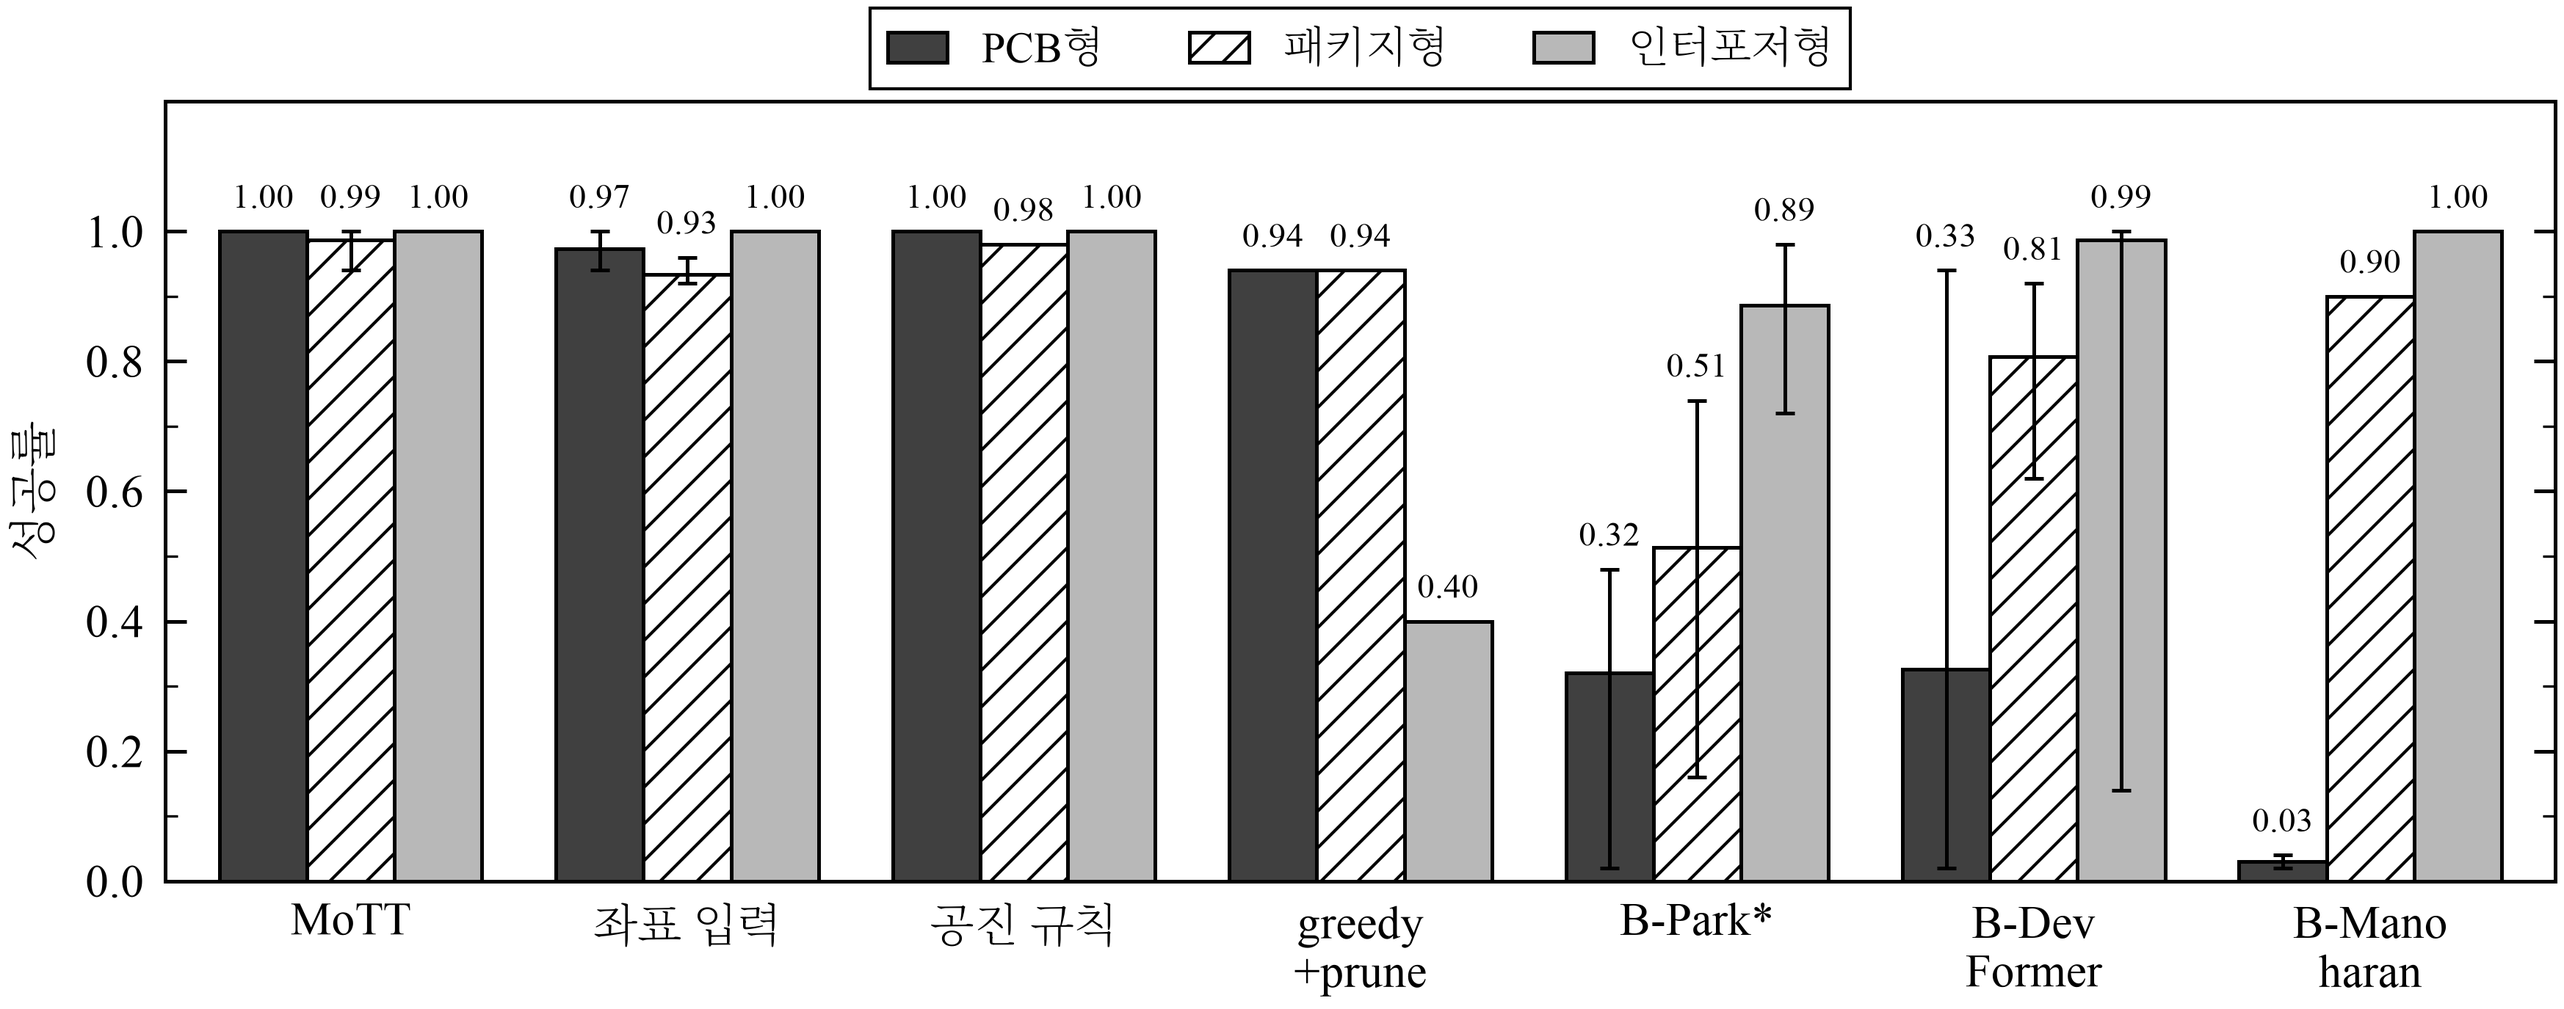
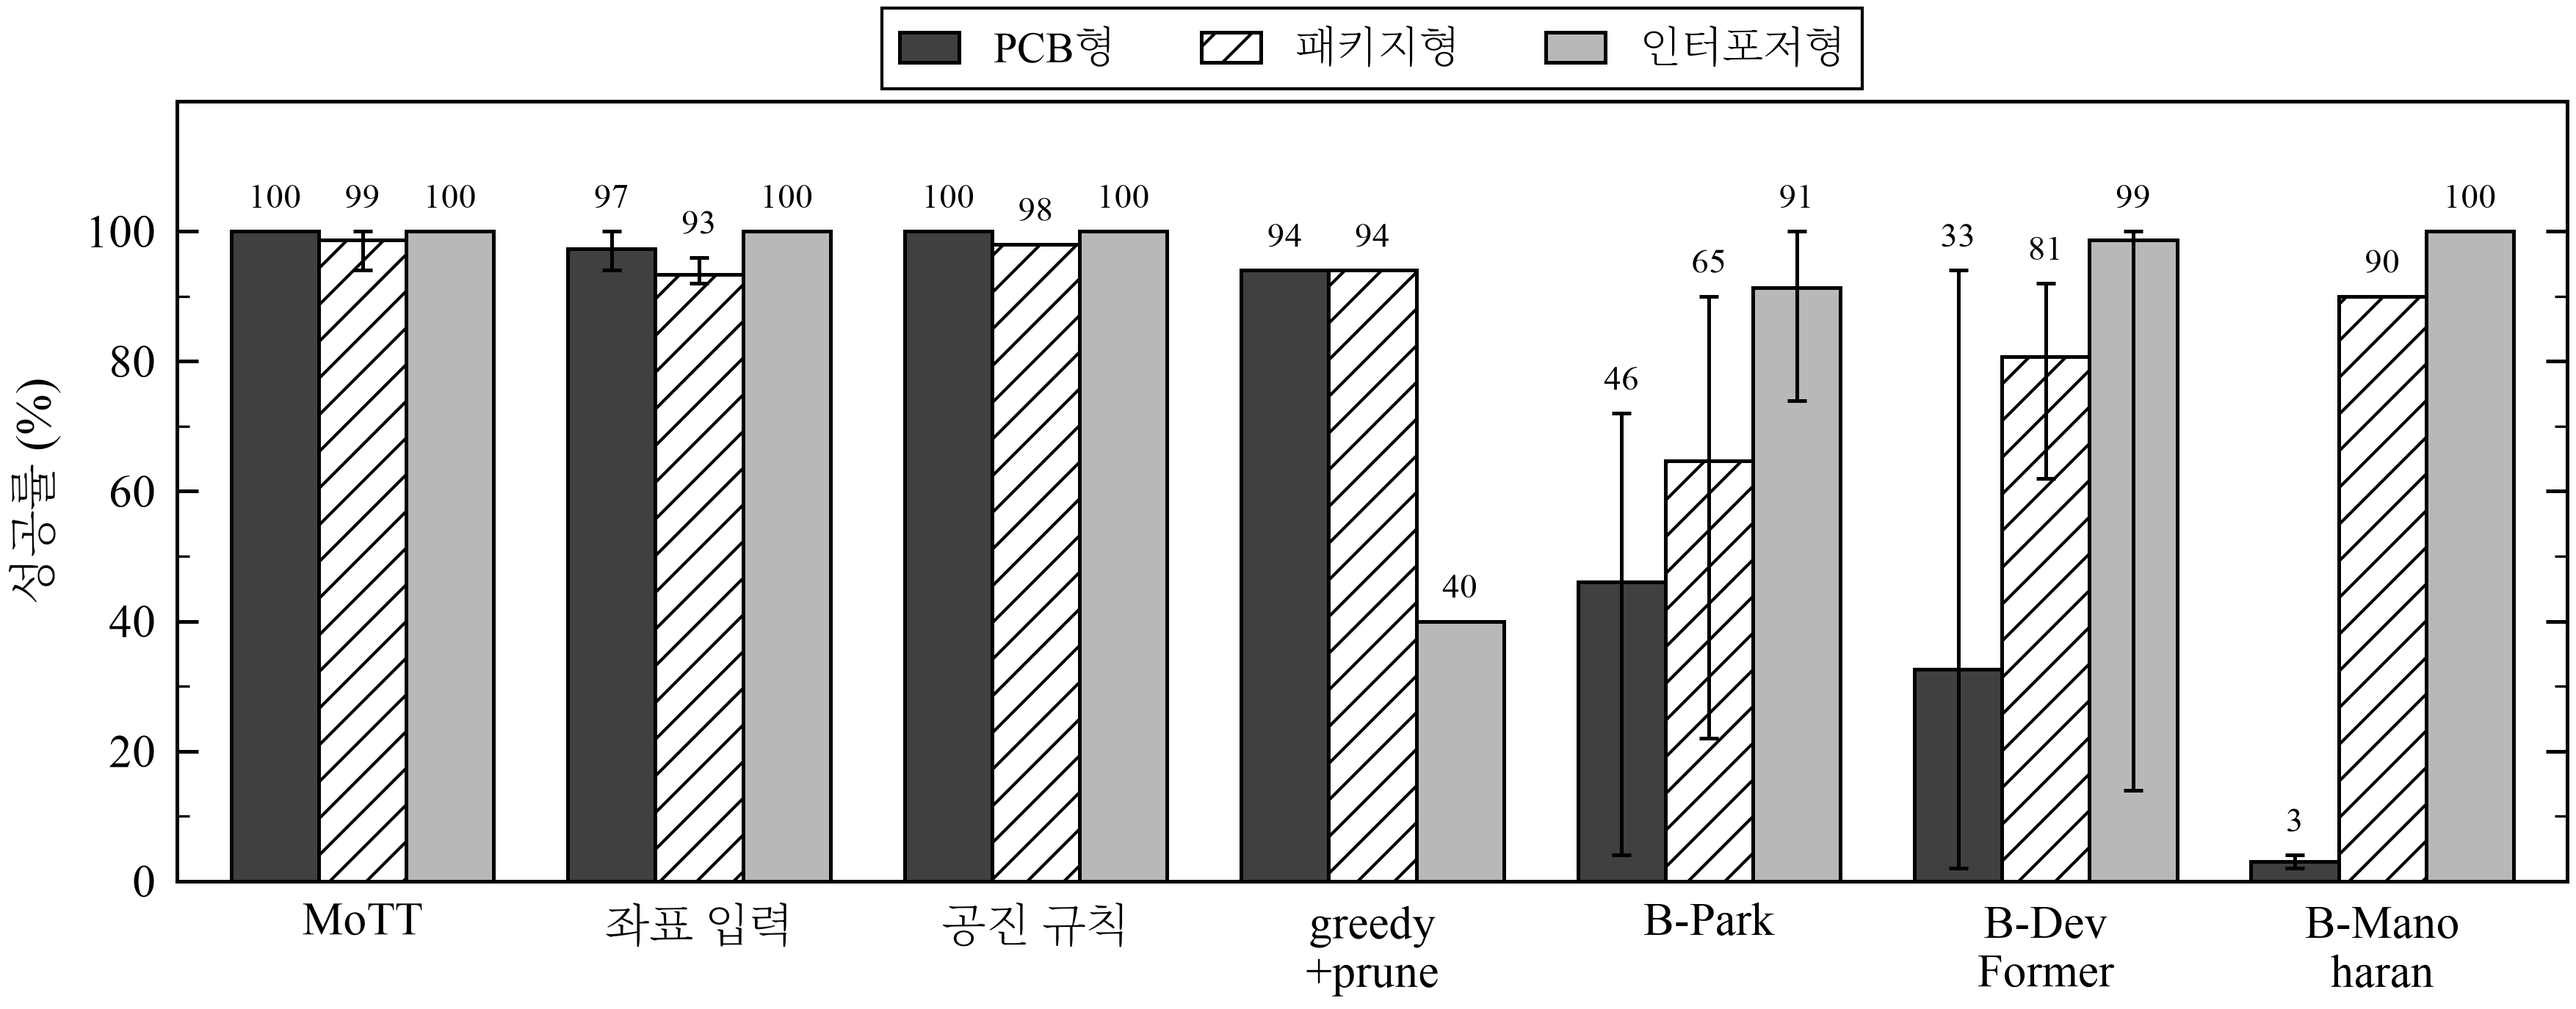
README: update all-kinds figure with B-Park harness results; add environment to English version

diff --git a/README_en.md b/README_en.md
@@ -147,7 +147,7 @@ Adding resonance features raises the success rate on unseen kinds; changing the 
 <div align="center">
 <img src="assets/all_kinds.png" width="800">
 
-<sub>Success rate (10×10, with harness). Bars: mean over seeds; whiskers: range over seeds. B-Park is without harness</sub>
+<sub>Success rate (%, 10×10, harness applied to every method). Bars: mean over seeds; whiskers: range over seeds</sub>
 </div>
 
 MoTT is the only learned method at or above 0.99 on all three kinds. The re-implemented prior methods drop to 0.02 on PCB boards for some seeds.
@@ -157,6 +157,7 @@ MoTT is the only learned method at or above 0.99 on all three kinds. The re-impl
 
 - `r2pk*`, `r0_coord*`, `bp_park*`, `bdf*`, `bm2_rlonly*` under [`runs/2026-10-29/`](runs/2026-10-29)
 - Decision rules: B1 [`e70de68`](https://github.com/jeehoo0507/R2E/commit/e70de68), N [`ce4422f`](https://github.com/jeehoo0507/R2E/commit/ce4422f)
+- The harness evaluation of B-Park was added after seeing its policy result (reported as post hoc). The plan was recorded before the run: [`bd69f36`](https://github.com/jeehoo0507/MoTT/commit/bd69f36), results [`aa92f10`](https://github.com/jeehoo0507/MoTT/commit/aa92f10)
 
 </details>
 
@@ -265,3 +266,15 @@ Methods named B- carry the architecture and inputs of the papers below into the 
 ## Limitations
 
 Synthetic boards only, up to 20×20 cells and three decap types per kind.
+
+## Environment
+
+| Item | Spec |
+|---|---|
+| GPU | NVIDIA RTX A5000 (24 GB), driver 595.99.02 |
+| CPU | Intel Xeon Gold 5218R @ 2.10 GHz (40 threads) |
+| RAM | 123 GB |
+| OS | Ubuntu 26.04.1 LTS |
+| Software | Python 3.14.4, PyTorch 2.14.1 (CUDA 13.0), NumPy 2.5.4 |
+
+The per-problem times in the report and in `docs/RESULTS.md` were measured on this server (server 1). Records from server 2, which has a different CPU, have their times left blank in `docs/RESULTS.md`.

diff --git a/README.md b/README.md
@@ -149,7 +149,7 @@ A Modal-Token Transformer for Generalizable Decoupling Capacitor Placement
 <div align="center">
 <img src="assets/all_kinds.png" width="800">
 
-<sub>성공률 (10×10, 하네스 적용). 막대는 seed 평균, 세로선은 seed별 범위. B-Park은 하네스 미적용</sub>
+<sub>성공률 (%, 10×10, 모든 방법에 하네스 적용). 막대는 seed 평균, 세로선은 seed별 범위</sub>
 </div>
 
 세 종류 모두에서 0.99 이상인 학습 방법은 MoTT뿐이었다. 선행 연구 재구현은 seed에 따라 PCB형 성공률이 0.02까지 떨어졌다.
@@ -159,6 +159,7 @@ A Modal-Token Transformer for Generalizable Decoupling Capacitor Placement
 
 - [`runs/2026-10-29/`](runs/2026-10-29)의 `r2pk*`, `r0_coord*`, `bp_park*`, `bdf*`, `bm2_rlonly*`
 - 판정 규칙: B1 [`e70de68`](https://github.com/jeehoo0507/R2E/commit/e70de68), N [`ce4422f`](https://github.com/jeehoo0507/R2E/commit/ce4422f)
+- B-Park의 하네스 평가는 정책 결과를 본 뒤 추가하였다(보고용). 평가 전에 계획을 기록하였다: [`bd69f36`](https://github.com/jeehoo0507/MoTT/commit/bd69f36), 결과 [`aa92f10`](https://github.com/jeehoo0507/MoTT/commit/aa92f10)
 
 </details>
 
